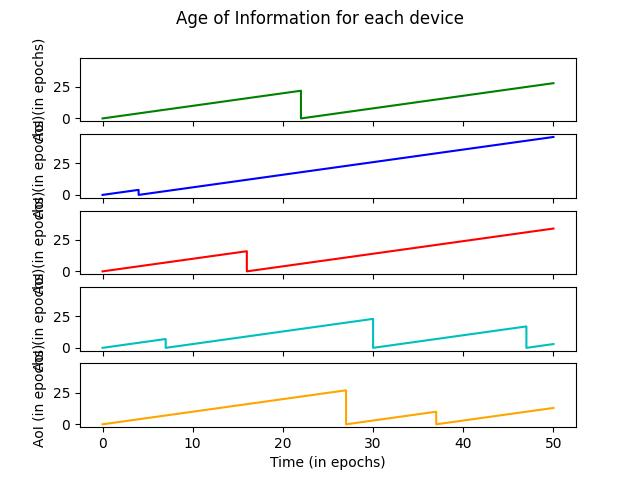
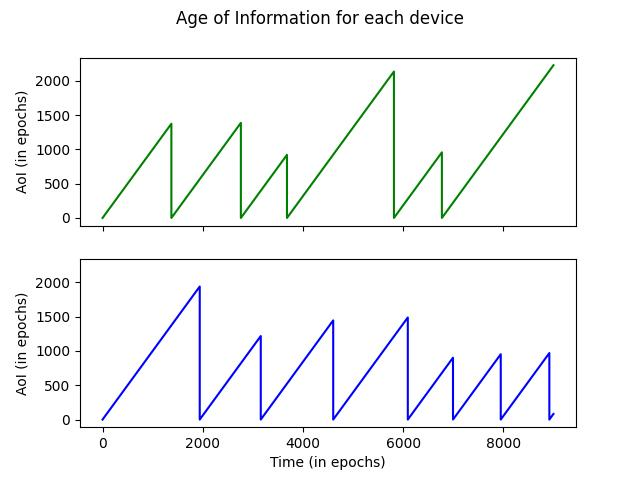
Correction d'erreurs dans la définition de la moyenne

diff --git a/main.py b/main.py
@@ -10,11 +10,11 @@ from matplotlib.patches import Rectangle
 from celluloid import Camera
 
 #CONSTANTS
-NB_DEVICES = 5
-SIM_LIFESPAN = 50
-SIM_TF = 3
-ITERATIONS_ALOHA = 60
-SIM_WAITING_TIME = 10
+NB_DEVICES = 322
+SIM_LIFESPAN = 15*60*10
+SIM_TF = 1
+ITERATIONS_ALOHA = 100
+SIM_WAITING_TIME = 15*60
 
 #INITIALIZING Simulation, Devices and Monitor
 devicesList = [Device(i+1, w_e = 1, theta_e = NB_DEVICES, lambda_e = 1, p_e = 0.5) for i in range(NB_DEVICES)]
@@ -40,19 +40,19 @@ print("result for lambda_e's : ", aloha.display_lambda())
 
 #INITIALIZING PLOTTING AND VISUAL REPRESENTATION
 # create figure object
-fig = plt.figure(figsize=(15, 4), dpi=200)
+#fig = plt.figure(figsize=(15, 4), dpi=200)
 # load axis box
-ax = plt.axes()
+#ax = plt.axes()
 #set x and y axis vals
 x = np.arange(0, SIM_LIFESPAN + 1, 1)
 y = np.arange(0, NB_DEVICES + 1, 1)
-plt.xticks(x)
-plt.yticks(y)
+#plt.xticks(x)
+#plt.yticks(y)
 x_vals = []
 y_vals = []
 listOfPatches = []
 #setup snpashot cam
-snap = Camera(fig)
+#snap = Camera(fig)
 
 #Display function for processing data and displaying it with matplotlib
 def display(activatedDevicesList, camera):
@@ -97,7 +97,7 @@ while(sim.isRunning):
     #print(sim.activatedDevicesList)
 
 
-    display(sim.activatedDevicesList, snap)
+    #display(sim.activatedDevicesList, snap)
     print(sim.status())
     
     sim.epochs += 1
@@ -110,11 +110,11 @@ while(sim.isRunning):
 #--------------------------RESULTS OF THE SIMULATION--------------------------------#
 results = Results(devicesList, SIM_LIFESPAN)
 results.modifyCommsHistories()
-results.plotAoIGraphs(5) # Be careful with high values of NB_DEVICES !!!
+results.plotAoIGraphs(2) # Be careful with high values of NB_DEVICES !!!
 results.printResultsAoI()
 
 
 #print(mainMonitor.db)
-animation = snap.animate()
-animation.save('animation.gif', writer='PillowWriter', fps=2)
+#animation = snap.animate()
+#animation.save('animation.gif', writer='PillowWriter', fps=2)
 #-----------------------------------------------------------------------------------#

diff --git a/results.py b/results.py
@@ -37,16 +37,16 @@ class Results():
     '''
     def returnMoyAoIOfADevice(self, commsHistory):
         # Uses only the comms_history when each communication is written with the beginning epoch ONLY
-        if len(commsHistory) == 0:
-            return self.lifespan
-        sumCommsAoI = commsHistory[0]
-        j = 1
+        if len(commsHistory) <= 1:
+            return (self.lifespan+1)/2
+        sumCommsAoI = 0
         for i in range(len(commsHistory)-1):
-            sumCommsAoI += commsHistory[i+1] - commsHistory[i]
-            j+=1
-        sumCommsAoI += self.lifespan - commsHistory[-1]
-        j+=1
-        return sumCommsAoI/(len(commsHistory)+1)
+            AoI = 0
+            for t in range(commsHistory[i], commsHistory[i+1]):
+                sumCommsAoI += AoI
+                AoI += 1
+            
+        return sumCommsAoI/(commsHistory[-1] - commsHistory[0])
     
     '''
     Function returning the maximum value of the AoI of a device
